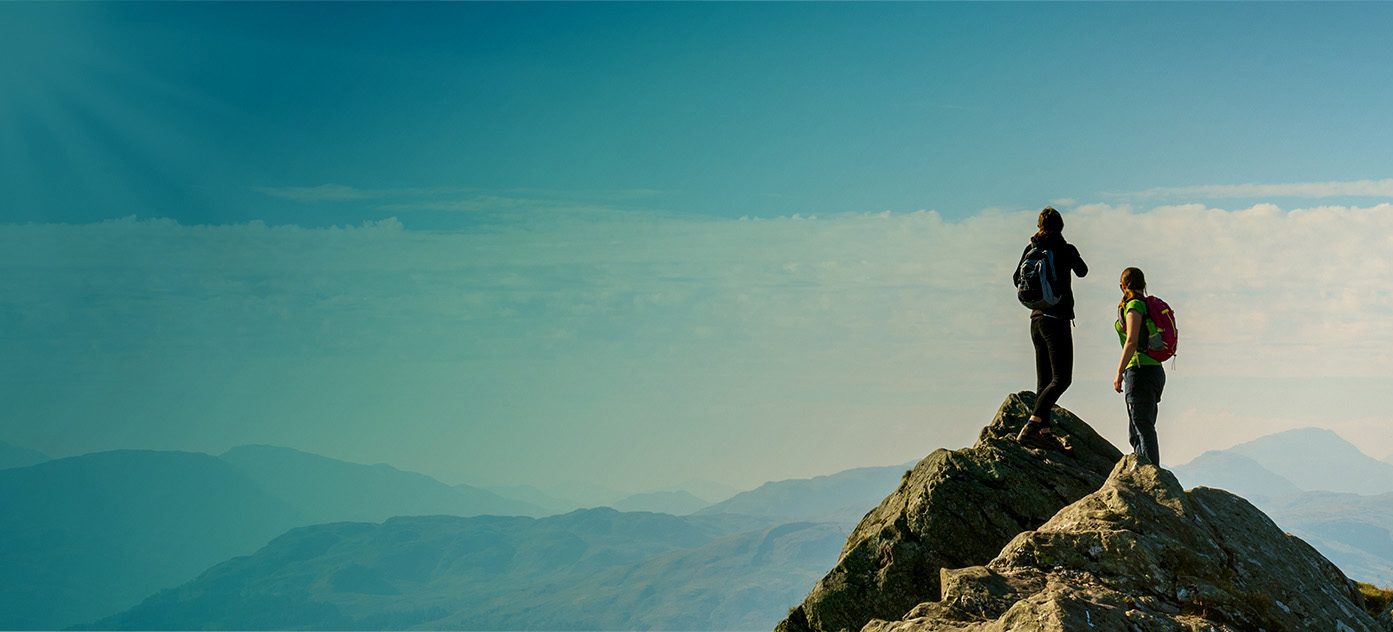
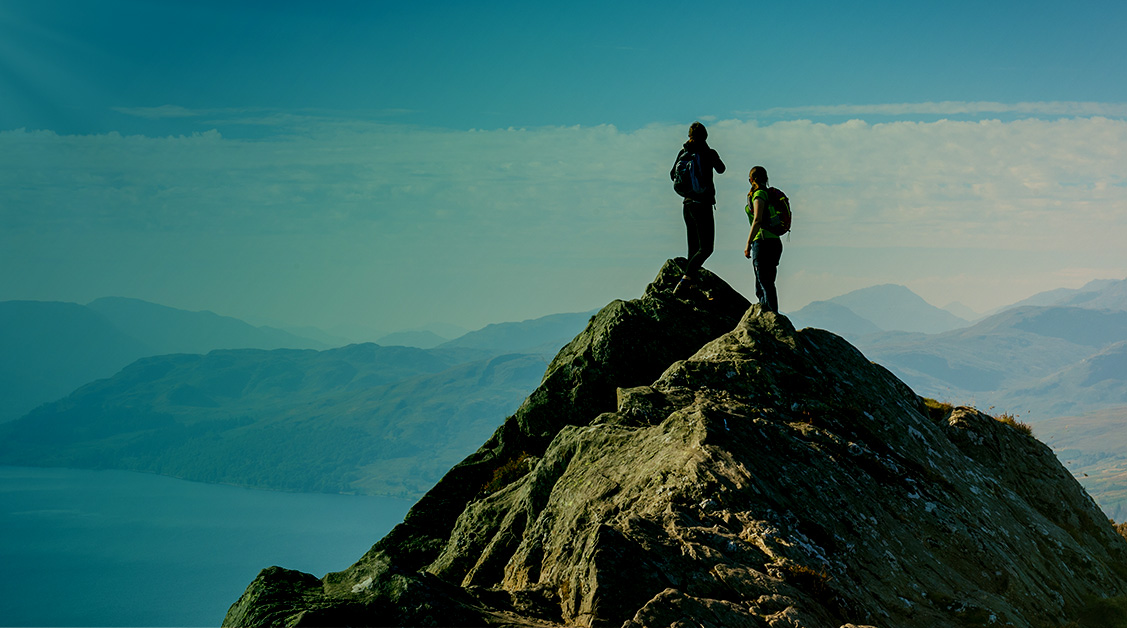
panel1
Fixed panel 1 background

diff --git a/css/style.css b/css/style.css
@@ -80,7 +80,7 @@ Panel 1
 ********************/
 #panel1 {
 	margin: 0 auto;
-	background: /*#09C*/ url(../images/header2.jpg)no-repeat;
+	background: url(../images/header3.jpg)no-repeat;
 	background-size: cover;
 	padding-bottom: 5%
 }
